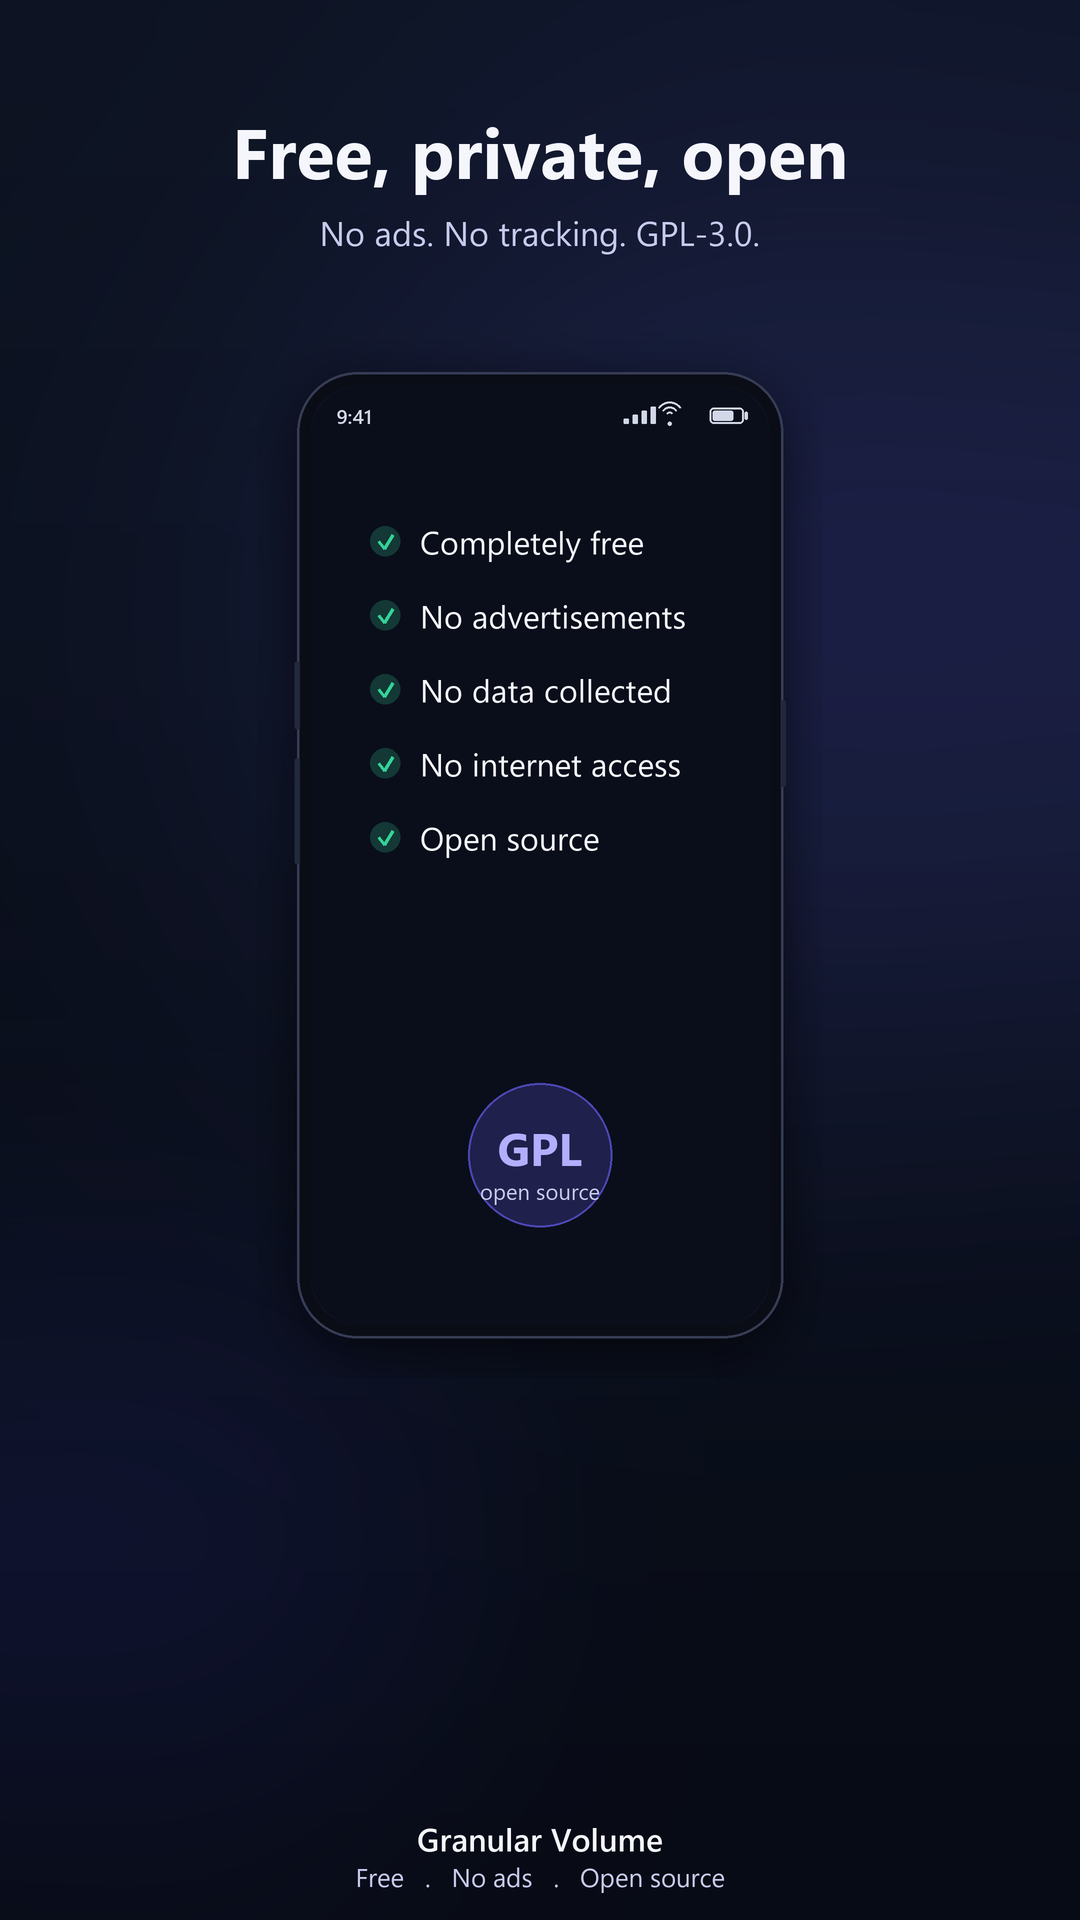
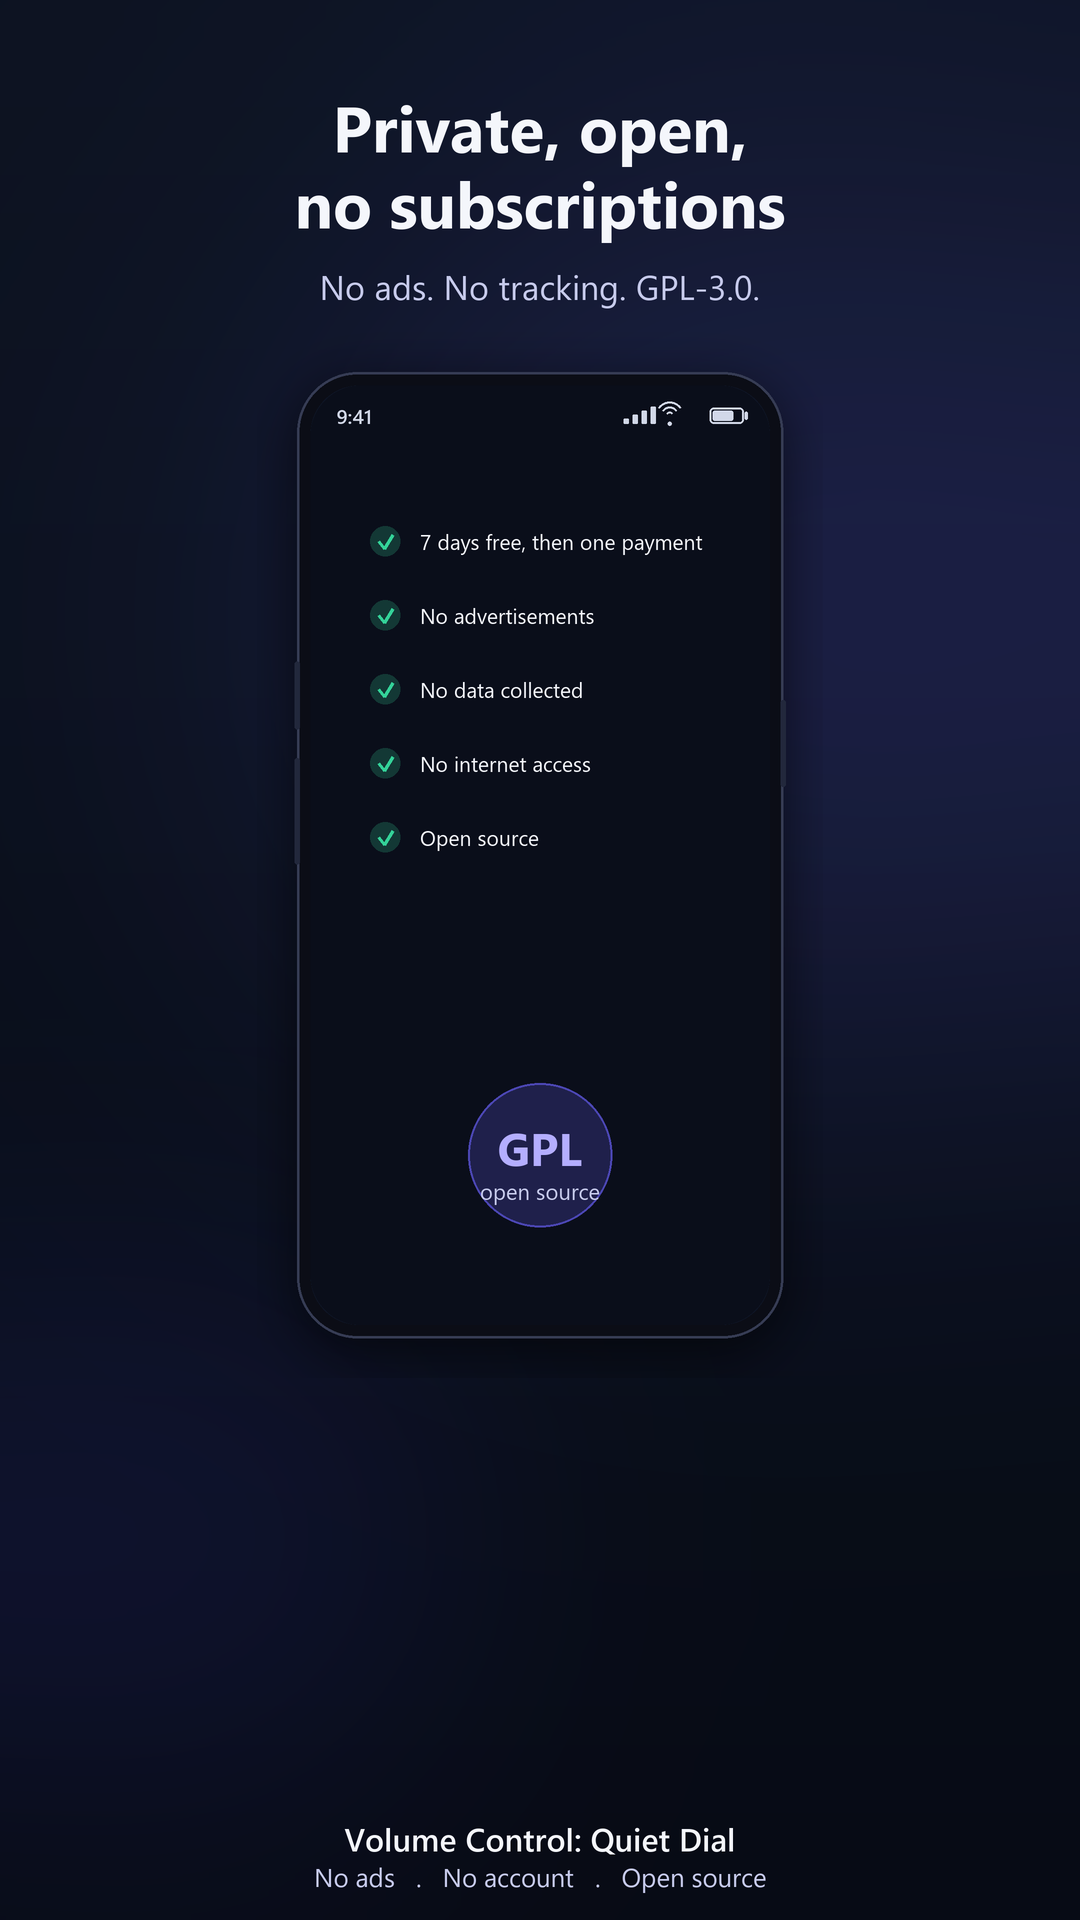
Site and store files: one publisher on every page, the Play button above the table on the main guide, the accessibility button steps aside while reading on a phone, current store images
- tablet, it and pt pages name the Granular Volume organization as publisher, like the other pages
- main guide: the short answer with the Play button now comes before the comparison table
- a11y.js: on narrow screens the round button slides off while scrolling down and returns on scroll up
- sitemap dates match each page's dateModified
- fastlane images: the current store screenshots and feature graphic

diff --git a/docs/guide/lower-android-volume-below-minimum.html b/docs/guide/lower-android-volume-below-minimum.html
@@ -30,7 +30,7 @@
   "author": {"@type": "Person", "name": "Rotem Zussman"},
   "publisher": {"@type": "Organization", "@id": "https://granularvolume.com/#org", "name": "Granular Volume", "url": "https://granularvolume.com/"},
   "datePublished": "2026-07-13",
-  "dateModified": "2026-10-12",
+  "dateModified": "2026-10-22",
   "mainEntityOfPage": "https://granularvolume.com/guide/lower-android-volume-below-minimum.html"
 }
 </script>
@@ -314,13 +314,23 @@
     <div class="icon"><img width="512" height="512" src="../img/icon.webp" alt="Quiet Dial icon"></div>
     <h1>How to lower Android volume below the minimum setting</h1>
     <p class="dek">Every real method, ranked honestly by what actually lowers the floor versus what just adds more clicks in between. No root required for any of these.</p>
-    <p class="meta">Updated October 12, 2026 · 10 min read</p>
+    <p class="meta">Updated October 22, 2026 · 10 min read</p>
   </header>
 <main id="main" tabindex="-1">
 
   <article>
     <p class="lead-p">If your Android phone or tablet is still too loud on the lowest setting, for a quiet room, a sleeping baby, or sensitive headphones, you are not imagining it and you are not doing anything wrong. Android's volume range is divided into a fixed number of steps between silence and full output, and the first step above mute is a fixed fraction of the maximum, not a fixed loudness. On a phone or tablet with a loud maximum, that first step can be genuinely too loud. Stock Android has no setting to move it.</p>
     <p>This guide covers every real method people use to work around it, including the ones that don't actually work the way they're usually described. That distinction matters, because most of what ranks for this question online recommends apps and settings that make the steps <em>finer</em> without making the <em>floor</em> any lower.</p>
+
+    <div class="quickfix">
+      <div class="kicker">Short on time? Here's the answer</div>
+      <p><strong>Volume Control: Quiet Dial</strong> is built entirely around this: it adds real volume steps below your device's hardware minimum, up to 30 dB below the floor, deeper than the other volume apps we tested, not just finer clicks within the existing range. If that's your exact problem, this is the fix, and it is set up in under a minute.</p>
+      <div class="cta">
+        <a class="btn btn-primary" href="https://play.google.com/store/apps/details?id=granularvolume.com&amp;referrer=utm_source%3Dsite%26utm_medium%3Dcta%26utm_campaign%3Dlower-android-volume-below-minimum" data-goatcounter-click="play-cta-lower-android-volume-below-minimum-top">Get it on Google Play</a>
+        <a class="btn btn-ghost" href="#attenuation">Why this works, others don't</a>
+      </div>
+      <p class="setup-note">After you install, open it once and allow it to display over other apps. That is the entire setup. Everything is open for seven days; after that the dial needs one payment, once, inside the app. No subscription.</p>
+    </div>
 
     <div class="glance">
       <div class="kicker">The short answer</div>
@@ -339,16 +349,6 @@
         <tr><td><a href="#attenuation">Below-floor attenuation (Quiet Dial)</a></td><td>Reduces output after the system's own minimum</td><td>Yes, down to 30 dB below it, no computer</td></tr>
         </tbody>
       </table>
-    </div>
-
-    <div class="quickfix">
-      <div class="kicker">Short on time? Here's the answer</div>
-      <p><strong>Volume Control: Quiet Dial</strong> is built entirely around this: it adds real volume steps below your device's hardware minimum, up to 30 dB below the floor, deeper than the other volume apps we tested, not just finer clicks within the existing range. If that's your exact problem, this is the fix, and it is set up in under a minute.</p>
-      <div class="cta">
-        <a class="btn btn-primary" href="https://play.google.com/store/apps/details?id=granularvolume.com&amp;referrer=utm_source%3Dsite%26utm_medium%3Dcta%26utm_campaign%3Dlower-android-volume-below-minimum" data-goatcounter-click="play-cta-lower-android-volume-below-minimum-top">Get it on Google Play</a>
-        <a class="btn btn-ghost" href="#attenuation">Why this works, others don't</a>
-      </div>
-      <p class="setup-note">After you install, open it once and allow it to display over other apps. That is the entire setup. Everything is open for seven days; after that the dial needs one payment, once, inside the app. No subscription.</p>
     </div>
 
     <div class="toc">

diff --git a/docs/a11y.js b/docs/a11y.js
@@ -130,5 +130,26 @@
     if (!panel.hidden && !panel.contains(e.target) && !button.contains(e.target)) closePanel(false);
   });
 
+  // On a phone the round button sits over the text being read. It slides off the edge while the
+  // page scrolls down and comes back on any scroll up, near the top, at the end of the page, and
+  // whenever it has keyboard focus or its panel is open.
+  var narrow = window.matchMedia ? window.matchMedia('(max-width:640px)') : null;
+  if (narrow) {
+    var style = el('style', {});
+    style.textContent = '.gv-a11y-fab{transition:transform .2s ease;}' +
+      '.gv-a11y-fab.gv-a11y-away{transform:translateX(-72px);}' +
+      '.gv-a11y-fab.gv-a11y-away:focus-visible{transform:none;}' +
+      '@media (prefers-reduced-motion:reduce){.gv-a11y-fab{transition:none;}}';
+    document.head.appendChild(style);
+    var lastY = window.pageYOffset;
+    window.addEventListener('scroll', function () {
+      var y = window.pageYOffset;
+      var atEnd = y + window.innerHeight >= document.documentElement.scrollHeight - 80;
+      var away = narrow.matches && panel.hidden && y > lastY && y > 200 && !atEnd;
+      button.classList.toggle('gv-a11y-away', away);
+      lastY = y;
+    }, { passive: true });
+  }
+
   refresh();
 })();

diff --git a/docs/guide/tablet-volume-too-loud-lowest-setting.html b/docs/guide/tablet-volume-too-loud-lowest-setting.html
@@ -24,11 +24,7 @@
     "@type": "Person",
     "name": "Rotem Zussman"
   },
-  "publisher": {
-    "@type": "Person",
-    "name": "Rotem Zussman",
-    "alternateName": "Granular Volume"
-  },
+  "publisher": {"@type": "Organization", "@id": "https://granularvolume.com/#org", "name": "Granular Volume", "url": "https://granularvolume.com/"},
   "datePublished": "2026-09-28",
   "dateModified": "2026-10-12",
   "mainEntityOfPage": "https://granularvolume.com/guide/tablet-volume-too-loud-lowest-setting.html"

diff --git a/docs/it/abbassare-volume-sotto-il-minimo-android.html b/docs/it/abbassare-volume-sotto-il-minimo-android.html
@@ -33,11 +33,7 @@
     "@type": "Person",
     "name": "Rotem Zussman"
   },
-  "publisher": {
-    "@type": "Person",
-    "name": "Rotem Zussman",
-    "alternateName": "Granular Volume"
-  },
+  "publisher": {"@type": "Organization", "@id": "https://granularvolume.com/#org", "name": "Granular Volume", "url": "https://granularvolume.com/"},
   "datePublished": "2026-09-28",
   "dateModified": "2026-10-12",
   "mainEntityOfPage": "https://granularvolume.com/it/abbassare-volume-sotto-il-minimo-android.html"

diff --git a/docs/pt/baixar-volume-abaixo-do-minimo-android.html b/docs/pt/baixar-volume-abaixo-do-minimo-android.html
@@ -33,11 +33,7 @@
     "@type": "Person",
     "name": "Rotem Zussman"
   },
-  "publisher": {
-    "@type": "Person",
-    "name": "Rotem Zussman",
-    "alternateName": "Granular Volume"
-  },
+  "publisher": {"@type": "Organization", "@id": "https://granularvolume.com/#org", "name": "Granular Volume", "url": "https://granularvolume.com/"},
   "datePublished": "2026-09-28",
   "dateModified": "2026-10-12",
   "mainEntityOfPage": "https://granularvolume.com/pt/baixar-volume-abaixo-do-minimo-android.html"
